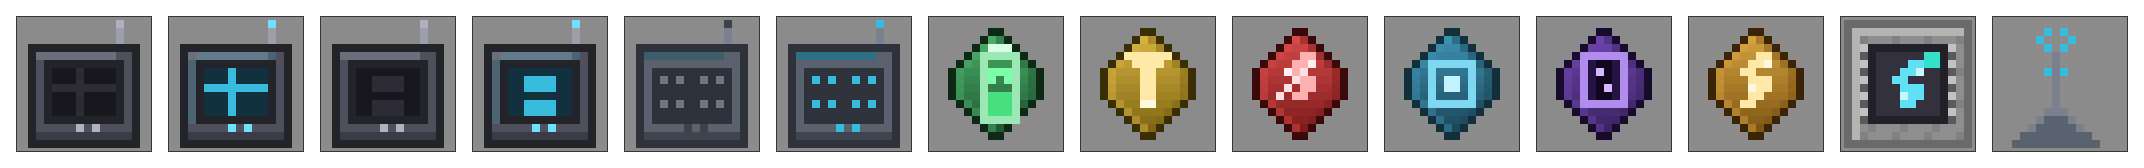
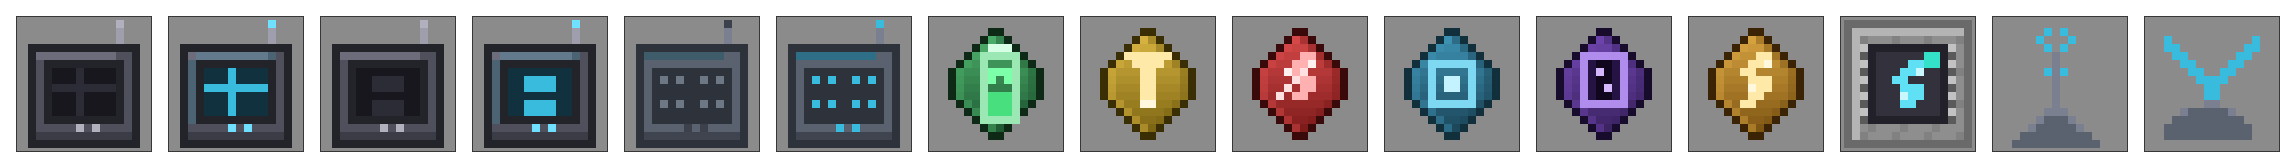
docs: 补齐无线桥的 README 配图与内容一览行
- gen_readme_images.py 支持无线桥：图标（亮灭两态取亮态）+ 配方图
- README 中英内容一览各加一行「无线桥 🧪」（标注未发布），章节里补配方图

diff --git a/gen_readme_images.py b/gen_readme_images.py
@@ -304,6 +304,12 @@ def load_assets():
     assets["amplifier"] = read_png(
         os.path.join(OWN_TEXTURES, "..", "block", "wireless_amplifier_active.png")
     )
+    assets["bridge_off"] = read_png(
+        os.path.join(OWN_TEXTURES, "..", "block", "wireless_bridge.png")
+    )
+    assets["bridge_on"] = read_png(
+        os.path.join(OWN_TEXTURES, "..", "block", "wireless_bridge_linked.png")
+    )
     return assets
 
 
@@ -312,7 +318,7 @@ def load_assets():
 def items_figure(assets, path):
     order = ["grid_off", "grid_on", "pattern_off", "pattern_on", "manager_off", "manager_on",
              "battery", "energy", "advanced", "range", "interdim", "remote", "charging",
-             "amplifier"]
+             "amplifier", "bridge_on"]
     scale = 8
     cell = 16 * scale + 8          # slot size, leaving a 4px inset for the sprite
     gap = 16
@@ -413,6 +419,7 @@ def main():
                       ("pattern_on", "item-wireless-pattern-grid.png"),
                       ("amplifier", "item-wireless-amplifier.png"),
                       ("manager_on", "item-wireless-autocrafter-manager.png"),
+                      ("bridge_on", "item-wireless-bridge.png"),
                       ("battery", "item-battery.png"),
                       ("energy", "item-energy.png"),
                       ("advanced", "item-advanced-energy.png"),
@@ -437,6 +444,10 @@ def main():
     recipe_figure(
         assets, os.path.join(OUT_DIR, "recipe-wireless-autocrafter-manager.png"),
         [[Q, T, Q], ["pattern_off", "autocrafter_manager", "pattern_off"], [Q, S, Q]], "manager_on",
+    )
+    recipe_figure(
+        assets, os.path.join(OUT_DIR, "recipe-wireless-bridge.png"),
+        [[Q, T, Q], [R, S, R], [Q, X, Q]], "bridge_on",
     )
     recipe_figure(
         assets, os.path.join(OUT_DIR, "recipe-battery.png"),

diff --git a/README.md b/README.md
@@ -47,6 +47,7 @@
 | <img src="docs/images/item-interdimensional.png" width="40" alt=""> | **维度升级插件**<br>`interdimensional_upgrade` | 解锁**跨维度**访问。 | EPIC |
 | <img src="docs/images/item-remote-energy.png" width="40" alt=""> | **远程输电插件**<br>`remote_energy_upgrade` | **不再消耗终端自身电池**，直接花所绑定网络里的电。 | EPIC |
 | <img src="docs/images/item-wireless-amplifier.png" width="40" alt=""> | **无线增幅塔** 🧪<br>`wireless_amplifier` | 覆盖半径 **64 格内**的无线终端**距离耗电打对折**。接网络常驻耗电，跨维度不享受。 | — |
+| <img src="docs/images/item-wireless-bridge.png" width="40" alt=""> | **无线桥** 🧪<br>`wireless_bridge` | 未配对 = 基点、配对后 = 据点：把网络**延伸到远处**（可跨维度），自带区块保活（很贵）。 | — |
 | <img src="docs/images/item-terminal-charging-station.png" width="40" alt=""> | **终端充电站**<br>`terminal_charging_station` | 3 个有线槽位快充，5 格范围内自动无线补电（**全局 3 个设备名额**）。 | — |
 
 所有鼠标悬停说明都是活的：终端会显示**当前绑定的维度与坐标**、**已安装的插件**，以及**当前距离与收费倍率**（同维度显示格数，跨维度单独标注，与实际扣费完全一致）；每张插件会显示自己的效果、生效前提，以及从配置里实时读出的数值（电池插件显示容量加成，维度插件显示当前跨维度能量倍率，初级能耗插件显示除数）。
@@ -125,6 +126,8 @@
 - 卸载本模组之前，**请先拆掉已配对的据点**，否则区块强加载记录会留在存档里。
 
 配方：`QWQ / RSR / QXQ`（石英富集铁 / 无线访问点 / **网络接收器 ×2** —— 桥的两端 / 下界之星 / 64k 存储方块）。
+
+<img src="docs/images/recipe-wireless-bridge.png" width="270" alt="无线桥配方">
 
 ## 充电站
 
@@ -453,6 +456,7 @@ Vanilla Refined Storage ships only a wireless *viewing* grid — you can browse 
 | <img src="docs/images/item-interdimensional.png" width="40" alt=""> | **Interdimensional Upgrade**<br>`interdimensional_upgrade` | **Cross-dimensional** access. | epic |
 | <img src="docs/images/item-remote-energy.png" width="40" alt=""> | **Remote Energy Upgrade**<br>`remote_energy_upgrade` | Draws power **from the bound network** instead of the terminal's own battery. | epic |
 | <img src="docs/images/item-wireless-amplifier.png" width="40" alt=""> | **Wireless Amplifier** 🧪<br>`wireless_amplifier` | **Halves** the distance multiplier for terminals inside a **64-block** radius. A permanent load on the network; never applies cross-dimension. | — |
+| <img src="docs/images/item-wireless-bridge.png" width="40" alt=""> | **Wireless Bridge** 🧪<br>`wireless_bridge` | Unpaired = anchor, paired = endpoint: extends the network **far away** (across dimensions) with chunk keeping (pricey). | — |
 | <img src="docs/images/item-terminal-charging-station.png" width="40" alt=""> | **Terminal Charging Station**<br>`terminal_charging_station` | 3 wired fast-charge slots, plus a 5-block wireless aura (**3 device slots total**). | — |
 
 Tooltips are live: the terminal shows the **bound dimension and coordinates**, its **installed upgrades**, and the **current distance and energy multiplier** (distance in blocks within a dimension, a separate label when cross-dimensional — always matching what the server bills); each card explains its effect, its prerequisite, and the values read from config in real time.
@@ -531,6 +535,8 @@ There is a blunter answer to the distance tariff: **do not let the network be th
 - Break (or at least unbind) paired endpoints **before uninstalling this mod**, otherwise the force-load records stay in the save.
 
 Recipe: `QWQ / RSR / QXQ` (quartz enriched iron / wireless transmitter / **two network receivers** — the two ends of the bridge / nether star / 64k storage block).
+
+<img src="docs/images/recipe-wireless-bridge.png" width="270" alt="Wireless bridge recipe">
 
 ### Charging Station
 
